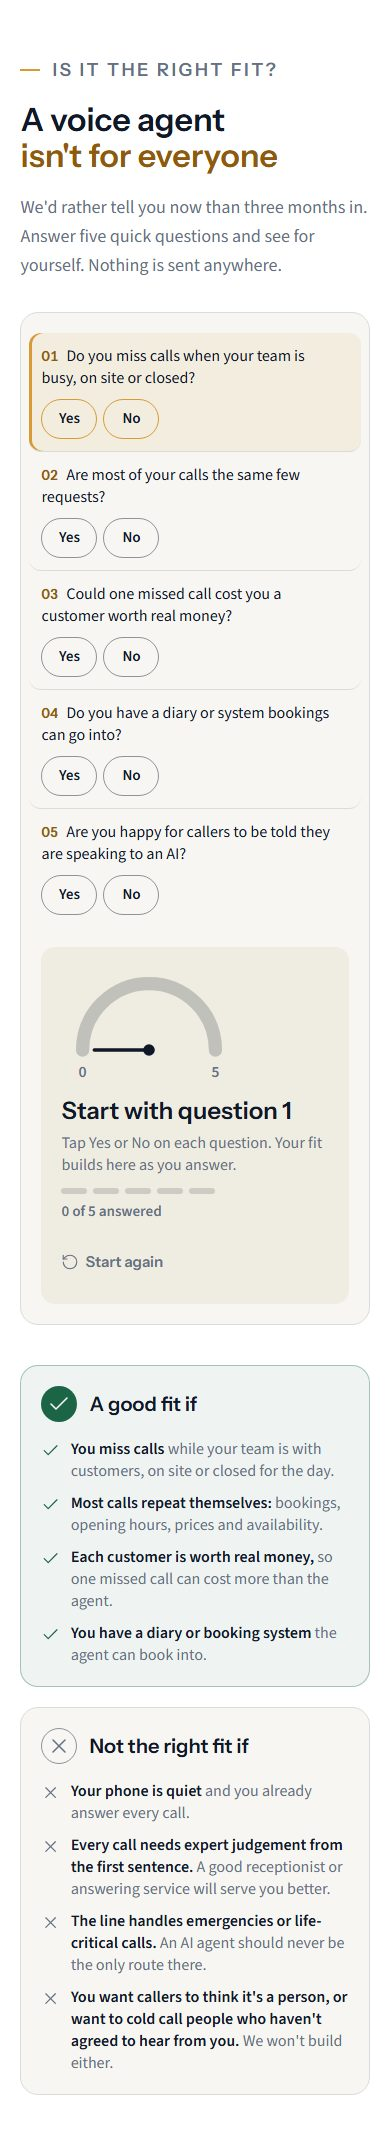
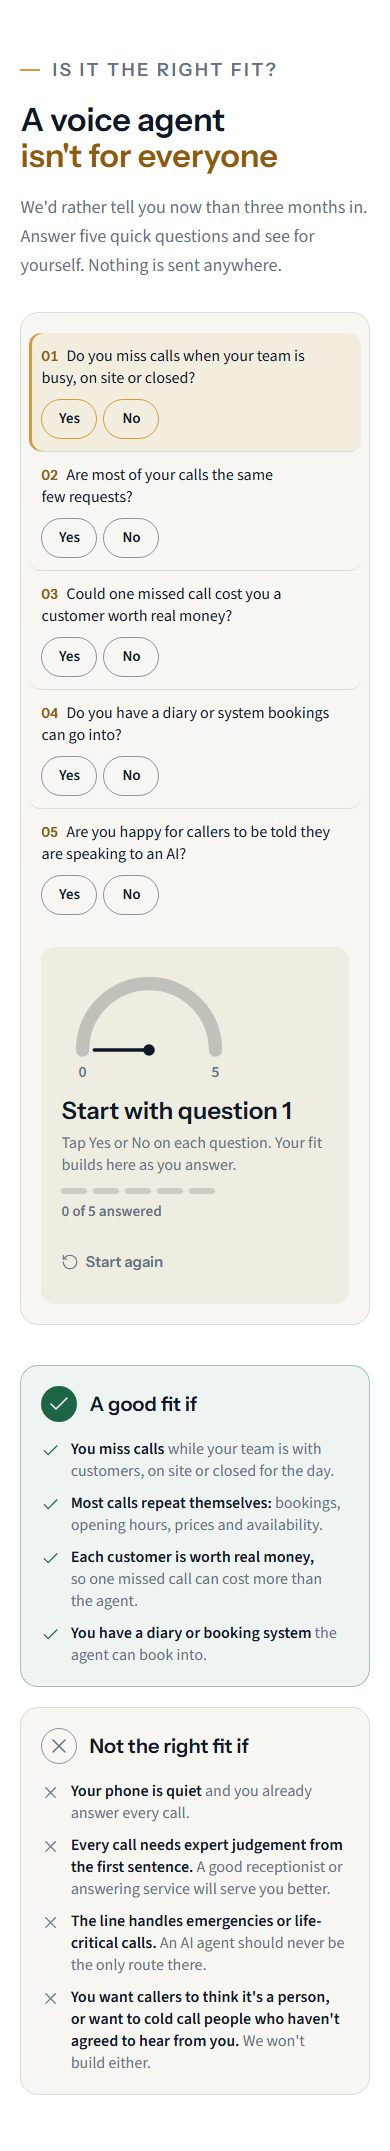
/ai-voice-agents: two-line hero title, tidy intros, no FAQ labels, infinite carousels
The hero title loses its colon and sits on two lines, with a two-line
description. Section intros are two lines with no short last line at
1024 to 1920px (line balancing only where it doesn't narrow the
paragraph; the Industries intro tightened by a few words), and the
Industries title balances onto two lines. FAQ questions lose their topic
labels. The Client feedback and Local cover carousels now loop infinitely
in both directions by button, drag and autoplay, counting 1 to 6.

diff --git a/components/voice-agents/VoiceAgentsScript.tsx b/components/voice-agents/VoiceAgentsScript.tsx
@@ -1139,64 +1139,91 @@ function init(page: HTMLElement, navigate: (href: string) => void) {
   }
 
   /* ------------------------------------------------------------ Carousels */
-  // Native scroll-snap tracks; this only adds the buttons, the waveform progress and the "n / total" status.
+  // Infinite loop: the track holds three copies of its cards and starts on the middle set. When scrolling settles
+  // in either outer copy, it jumps silently by one set's width, so moving left or right never meets an end. The
+  // status reads the real card ("3 / 6"). Copies are aria-hidden and out of the tab order; they run before the
+  // video pop-up is wired (see the init order), so a copy's play button opens its video like the original's.
   function initCarousels() {
     $$("[data-carousel]").forEach((root) => {
       const track = $(".va-car-track", root);
       const prev = $<HTMLButtonElement>("[data-car-prev]", root);
       const next = $<HTMLButtonElement>("[data-car-next]", root);
       const status = $("[data-car-status]", root);
-      if (!track || !prev || !next) return;
-      const cards = () => Array.from(track.children).filter((c) => !(c as HTMLElement).hidden) as HTMLElement[];
-      const stepWidth = () => {
-        const [a, b] = cards();
-        return b ? b.offsetLeft - a.offsetLeft : a?.offsetWidth || 1;
-      };
-      // "The end" is when the last card is fully on screen, wherever the snap happens to rest.
-      const atEnd = () => {
-        const list = cards();
-        const last = list[list.length - 1];
-        // A little tolerance: the snap can rest a few pixels short of the true end.
-        return !last || last.getBoundingClientRect().right <= track.getBoundingClientRect().right + 24;
-      };
-      let raf = 0;
-      // Count snap positions, not cards: with three cards on screen, six cards are four stops.
       const wave = $("[data-car-wave]", root);
+      if (!track || !prev || !next) return;
+      const originals = Array.from(track.children) as HTMLElement[];
+      const n = originals.length;
+      if (n < 2) return;
+
+      const copy = (el: HTMLElement) => {
+        const c = el.cloneNode(true) as HTMLElement;
+        c.setAttribute("aria-hidden", "true");
+        c.dataset.carClone = "";
+        c.removeAttribute("id");
+        c.querySelectorAll("[id]").forEach((x) => x.removeAttribute("id"));
+        c.querySelectorAll<HTMLElement>("a, button, [tabindex]").forEach((x) => (x.tabIndex = -1));
+        return c;
+      };
+      const before = originals.map(copy);
+      const after = originals.map(copy);
+      track.prepend(...before);
+      track.append(...after);
+      cleanups.push(() => [...before, ...after].forEach((c) => c.remove()));
+
+      const all = () => Array.from(track.children) as HTMLElement[];
+      const step = () => {
+        const [a, b] = all();
+        return b.offsetLeft - a.offsetLeft;
+      };
+      const index = () => Math.round(track.scrollLeft / step());
+      const jumpTo = (left: number) => {
+        track.style.scrollBehavior = "auto";
+        track.scrollLeft = left;
+        track.style.scrollBehavior = "";
+      };
+      // Start on the first original.
+      jumpTo(n * step());
+
+      // Waveform: one bar per card.
       const heights = [40, 70, 55, 90, 45, 75, 60, 85, 50, 65, 80, 35];
-      let bars = $$("i", wave);
+      if (wave) wave.innerHTML = Array.from({ length: n }, (_, k) => '<i style="--h:' + heights[k % heights.length] + '%"></i>').join("");
+      const bars = wave ? $$("i", wave) : [];
+
+      let raf = 0;
       function sync() {
         raf = 0;
-        const list = cards();
-        const end = atEnd();
-        track.classList.toggle("is-end", end);
-        const max = track.scrollWidth - track.clientWidth;
-        const base = list[0]?.offsetLeft ?? 0;
-        const stops = Math.max(1, list.filter((c) => c.offsetLeft - base < max - 24).length + (max > 24 ? 1 : 0));
-        if (bars.length !== stops) {
-          wave.innerHTML = Array.from({ length: stops }, (_, k) => '<i style="--h:' + heights[k % heights.length] + '%"></i>').join("");
-          bars = $$("i", wave);
-        }
-        const i = end ? stops - 1 : Math.min(stops - 2 >= 0 ? stops - 2 : 0, Math.max(0, Math.round(track.scrollLeft / stepWidth())));
-        const list_ = { length: stops };
-        if (status) status.textContent = (i + 1) + " / " + list_.length;
+        const real = ((index() % n) + n) % n;
+        if (status) status.textContent = real + 1 + " / " + n;
         bars.forEach((bar, k) => {
-          bar.classList.toggle("is-on", k <= i);
-          bar.classList.toggle("is-now", k === i);
+          bar.classList.toggle("is-on", k <= real);
+          bar.classList.toggle("is-now", k === real);
         });
       }
-      // Loops: next at the end returns to the start, previous at the start jumps to the end.
+      // Once scrolling settles in an outer copy, move back to the same card in the middle set.
+      let settle = 0;
+      function normalise() {
+        if (dragging) return;
+        const i = index();
+        if (i < n) jumpTo(track.scrollLeft + n * step());
+        else if (i >= 2 * n) jumpTo(track.scrollLeft - n * step());
+        sync();
+      }
+      on(track, "scroll", () => {
+        if (!raf) raf = requestAnimationFrame(sync);
+        clearTimeout(settle);
+        settle = later(normalise, 140);
+      }, { passive: true });
+      on(window, "resize", () => { jumpTo((n + (((index() % n) + n) % n)) * step()); sync(); });
+
       const go = (dir: number) => {
-        const behavior = reduceMotion.matches ? "auto" : "smooth";
-        if (dir > 0 && atEnd()) track.scrollTo({ left: 0, behavior });
-        else if (dir < 0 && track.scrollLeft <= 8) track.scrollTo({ left: track.scrollWidth, behavior }); // the first card snaps at the 6px padding
-        else track.scrollBy({ left: dir * stepWidth(), behavior });
+        normalise();
+        track.scrollTo({ left: (index() + dir) * step(), behavior: reduceMotion.matches ? "auto" : "smooth" });
       };
       on(prev, "click", () => go(-1));
       on(next, "click", () => go(1));
-      on(track, "scroll", () => { if (!raf) raf = requestAnimationFrame(sync); }, { passive: true });
-      on(window, "resize", sync);
 
-      // Drag with a mouse or pen (touch already scrolls natively). A real drag swallows the click that follows.
+      // Drag with a mouse or pen (touch already scrolls natively), snapping to the nearest card either way.
+      // A real drag swallows the click that follows.
       let dragX = 0, dragLeft = 0, dragging = false, moved = false;
       on(track, "pointerdown", (e: PointerEvent) => {
         if (e.pointerType === "touch" || e.button !== 0) return;
@@ -1216,7 +1243,7 @@ function init(page: HTMLElement, navigate: (href: string) => void) {
         dragging = false;
         if (!moved) return;
         track.classList.remove("is-dragging");
-        track.scrollTo({ left: Math.round(track.scrollLeft / stepWidth()) * stepWidth(), behavior: reduceMotion.matches ? "auto" : "smooth" });
+        track.scrollTo({ left: index() * step(), behavior: reduceMotion.matches ? "auto" : "smooth" });
       };
       on(track, "pointerup", endDrag);
       on(track, "pointercancel", endDrag);
@@ -1244,8 +1271,6 @@ function init(page: HTMLElement, navigate: (href: string) => void) {
         on(next, "click", () => pause(8000));
         observe((entries) => { inView = entries[0].isIntersecting; if (inView) play(); else stop(); }, { threshold: 0.4 }).observe(root);
       }
-      // The industry filter chips (outside the carousel) hide cards; re-sync after any click.
-      on(page, "click", () => later(sync, 60));
       sync();
     });
   }
@@ -1318,6 +1343,7 @@ function init(page: HTMLElement, navigate: (href: string) => void) {
   initHeroCall();
   initLedger();
   initVideoFacade();
+  initCarousels();
   initVideoModal();
   initIndustryFilter();
   initTabs();
@@ -1332,7 +1358,6 @@ function init(page: HTMLElement, navigate: (href: string) => void) {
   initRelated();
   initDemoForm();
   initAreaMap();
-  initCarousels();
   initPlanInterest();
   initStickyBar();
   initReveal();

diff --git a/lib/content/ai-voice-agents-landing-v4.ts b/lib/content/ai-voice-agents-landing-v4.ts
@@ -56,7 +56,7 @@ export const landingV4Markup = String.raw`
 <section id="top" class="hero4" aria-labelledby="hero-title">
   <div class="container-omh pt-12 text-center md:pt-16 lg:pt-20">
     <span class="badge"><span class="voice-mark" aria-hidden="true"><i></i><i></i><i></i></span>AI voice agents · 24/7</span>
-    <h1 class="h1-c mx-auto mt-6" id="hero-title">AI Voice Agent for UK Businesses: <span class="hl">Answer Every Call, Even at 2am</span></h1>
+    <h1 class="h1-c mx-auto mt-6" id="hero-title">AI Voice Agent for UK Businesses <br class="max-md:hidden"><span class="hl">Answer Every Call, Even at 2am</span></h1>
     <p class="lead mx-auto mt-6">Our AI voice agent answers on the first ring, qualifies the caller and books them into your calendar, day or night. We build it around your business, test it with you and manage it every month, so you never have to learn the software.</p>
     <div class="mt-8 flex flex-col items-center justify-center gap-3 sm:flex-row" id="hero-form">
       <a href="#book-demo-form" class="btn btn-primary w-full sm:w-auto" data-track="hero_book_demo">Book a 30-Minute Demo</a>
@@ -75,7 +75,7 @@ export const landingV4Markup = String.raw`
       <div class="marquee" id="strip" data-marquee style="--dur: 38s">
         <div class="marquee-track">
           <ul aria-labelledby="strip-title">
-          <li><a class="ind" href="#uc-estate" data-ind="estate"><span class="ind-ico" aria-hidden="true"><svg class="icon"><use href="#v4-i-home"/></svg></span><b>Real Estate &amp; Letting</b><small>Agents</small></a></li>
+          <li><a class="ind" href="#uc-estate" data-ind="estate"><span class="ind-ico" aria-hidden="true"><svg class="icon"><use href="#v4-i-home"/></svg></span><b>Real Estate</b><small>&amp; Letting Agents</small></a></li>
           <li><a class="ind" href="#uc-dental" data-ind="dental"><span class="ind-ico" aria-hidden="true"><svg class="icon"><use href="#v4-i-tooth"/></svg></span><b>Dental</b><small>Clinics</small></a></li>
           <li><a class="ind" href="#uc-clinics" data-ind="clinics"><span class="ind-ico" aria-hidden="true"><svg class="icon"><use href="#v4-i-medical"/></svg></span><b>Clinics &amp;</b><small>Healthcare</small></a></li>
           <li><a class="ind" href="#uc-plumbers" data-ind="plumbers"><span class="ind-ico" aria-hidden="true"><svg class="icon"><use href="#v4-i-drop"/></svg></span><b>Plumbers</b><small>&nbsp;</small></a></li>

diff --git a/app/ai-voice-agents/voice-agents.css b/app/ai-voice-agents/voice-agents.css
@@ -500,8 +500,7 @@ html:has(.va-page dialog[open]) {
 #va-page .va-car-track:focus-visible { outline: 2px solid var(--va-hl); outline-offset: 4px; border-radius: 12px; }
 #va-page .va-car-track > * { flex: 0 0 min(100%, var(--car-w, 400px)); width: min(100%, var(--car-w, 400px)); scroll-snap-align: start; margin: 0; }
 #va-page .va-car-track > [hidden] { display: none; }
-#va-page .va-car-track > :last-child { scroll-snap-align: start end; }
-#va-page .va-car-track.is-end { -webkit-mask-image: none; mask-image: none; }
+
 #va-page .va-car-ui { display: flex; align-items: center; gap: .75rem; margin-top: 1rem; }
 #va-page .va-car-btn {
   display: grid; place-items: center; width: 48px; height: 48px; flex: none; border-radius: 999px;
@@ -820,3 +819,15 @@ html:has(.va-page dialog[open]) {
 #va-page :is(h2 + p, div:has(> h2) + p, h3 + p.text-muted, .head-c .lead, .hero4 .lead) { max-width: 850px; }
 #va-page :is(.head-c .lead, .hero4 .lead) { margin-inline: auto; }
 #va-page .hero4 .h1-c { max-width: 1120px; }
+
+/* No stray two-to-four-word last lines (20 Oct 2026, client): section descriptions balance their lines, and running
+   copy avoids short last lines. The hero description is wide enough to sit on two lines from laptop width up. */
+/* Balance only centred intros: on a left-aligned intro it shrinks the paragraph well short of its heading. */
+#va-page :is(.head-c .lead, .hero4 .lead) { text-wrap: balance; }
+#va-page :is(p, li, dd) { text-wrap: pretty; }
+#va-page .hero4 .lead { max-width: 1000px; }
+#va-page .hero4 .h1-c { max-width: 1180px; }
+/* Industries title on two balanced lines like its neighbours (client, 20 Oct 2026). */
+#va-page #industries h2 { max-width: 20ch; text-wrap: balance; }
+/* The fit intro sits in a half-width column, so balancing it does not make it look narrow. */
+#va-page #right-fit h2 + p { text-wrap: balance; }

diff --git a/lib/content/ai-voice-agents-legacy.ts b/lib/content/ai-voice-agents-legacy.ts
@@ -26,7 +26,6 @@ const faqItem = ({ q, a, cat }: (typeof voiceFaqs)[number], i: number) => `     
           <span class="num hidden w-7 shrink-0 text-[15px] sm:block" aria-hidden="true">${String(i + 1).padStart(2, "0")}</span>
           <span class="min-w-0 flex-1">
             <h3 class="!text-[clamp(18px,17px+.3vw,20.5px)] !leading-[1.3]">${q}</h3>
-            <span class="mt-1 block text-[13.5px] font-semibold text-muted">${faqTopics[cat]}</span>
           </span>
           <span class="grid h-9 w-9 shrink-0 place-items-center rounded-full border border-[var(--va-line-strong)] group-open:border-gold group-open:bg-gold group-open:text-navy"><svg class="icon faq-chevron" aria-hidden="true" focusable="false"><use href="#i-chevron-down"/></svg></span>
         </summary>
@@ -43,7 +42,7 @@ export const legacyMarkup = String.raw`
         <p class="eyebrow"><span class="eyebrow-mark" aria-hidden="true"><i></i><i></i><i></i></span>Industries</p>
         <h2>Built for businesses that live on <span class="hl">the phone</span></h2>
       </div>
-      <p class="mt-5 text-muted">We set up AI voice agents for real estate and letting agents, dental clinics, healthcare clinics, plumbers, heating engineers, builders, law firms and car dealerships. Each agent is scripted around the calls your sector actually gets.</p>
+      <p class="mt-5 text-muted">We set up AI voice agents for real estate and letting agents, dental and healthcare clinics, plumbers, heating engineers, builders, law firms and car dealerships, each one scripted around the calls your sector gets.</p>
     </div>
 
     <div role="group" aria-label="Filter industries by group" class="mt-10 flex flex-wrap gap-2" data-industry-filters>

diff --git a/components/voice-agents/VoiceMotion.tsx b/components/voice-agents/VoiceMotion.tsx
@@ -21,7 +21,7 @@ const REVEAL = [
   ["[data-industry], #features ol > li, .tl-card", "up"],
   [".cap-tab, [data-brand-step], [data-fit-form]", "left"],
   ["#right-fit .hover-card, [data-faq-item], #faq .rounded-\\[16px\\]", "right"],
-  ["#feedback figure, .city", "slide"],
+  [".va-car", "slide"],
   ["#pricing article, #compare [data-cmp] dl > div, #feedback dl, .kstats > div", "scale"],
   ["#compare .lg\\:block", "up"],
   [".tl-num", "pop"],

diff --git a/docs/ai-voice-agents-cro/ai-voice-agents-qa-report.md b/docs/ai-voice-agents-cro/ai-voice-agents-qa-report.md
@@ -313,3 +313,16 @@ page is 850px or narrower, titles 894px or narrower). "Ask for a call back" remo
 booking band on every page that uses it (verified on /ai-voice-agents and /google-adwords-ppc), so the
 `callback_request_submitted` event no longer exists; `demo_request_submitted` is the only conversion
 event.
+Round nine:
+- Hero title without the colon, on two lines ("AI Voice Agent for UK Businesses" / "Answer Every Call,
+  Even at 2am"); the hero description is up to 1,000px wide so it sits on two lines.
+- Intros: measured at 1920, 1440, 1280 and 1024px, every section intro is two lines (Local cover one)
+  with no two-to-four-word last line. Line balancing is used only on centred intros and the half-width
+  fit intro; on full-width left-aligned intros it shrank the paragraph well short of its title.
+  The Industries intro was tightened by a few words to fit two lines.
+- Industries title on two balanced lines.
+- FAQ: the topic label under each question removed (the topic filter chips remain).
+- Carousels loop infinitely: three copies of the cards, starting on the middle set, with a silent
+  jump by one set when scrolling settles in an outer copy. Verified: next and previous run 1 to 6 and
+  wrap both ways, dragging forward goes 1 to 6 and on to 1, copies are aria-hidden and out of the tab
+  order, a copy's play button opens its video. Each carousel now reveals as a whole.
